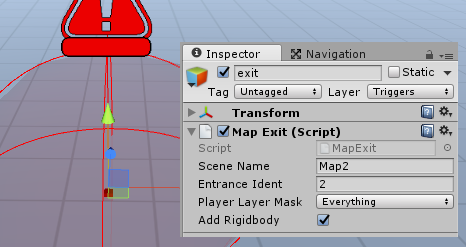
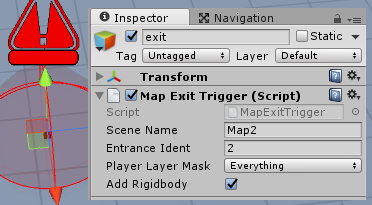
...

diff --git a/pages/blox/tbrpg-map-transition.md b/pages/blox/tbrpg-map-transition.md
@@ -24,6 +24,17 @@ Each entrance in the same scene should have a unique "Ident" since this ident is
 Exit
 ----
 
+![](img/tbrpg/10.png)
+
+The map exit is a component which you can add to any object which will cause a scene change when the player interacts with that object. This component can be added from menu: `Component > Blox > TBRPG > Map Exit`.
+
+You need to specify a scene to load and an ident for a map entrance in the target scene. You may leave out the entrance ident but then the first entrance found in the target scene will be used or position 0x0x0 if there are no map entrances defined in the target scene.
+
+The object you place this on will need a collider so that mouse clicks on the objects can be detected.
+
+Exit Trigger
+------------
+
 ![](img/tbrpg/07.png)
 
 The map exit is a trigger which will cause a scene change when a member of the party enters it. Make changes to the transform scale to determine how big an area the trigger should cover.
@@ -33,8 +44,5 @@ You need to specify a scene to load and an ident for a map entrance in the targe
 You will probably be placing all your player characters in the same layer. This layer can be selected for the "Player payer mask" option. Note that you may leave it to "Everything" if you want since the MapExit will not trigger for anything other than a player party member.
 
 You might also want to place this object in a layer, for example one called "Triggers" and then set up the project's layer collision matrix to exclude everything except the Player layer. You can read more about this in the Unity documentation for [Layer Collision Matrix](https://docs.unity3d.com/Manual/LayerBasedCollision.html).
-
-
-
 
 

diff --git a/pages/blox/tbrpg-intro.md b/pages/blox/tbrpg-intro.md
@@ -14,7 +14,7 @@ Turn Based RPG for Blox
 
 **WARNING: This plugin is still under heavy development. It is currently in Alpha state. Please visit the [Support Forum](http://forum.plyoung.com/t/turn-based-rpg-dev/3679) to track development and progress of this plugin.**
 
-The Turn Based RPG plugin for [Blox](https://www.assetstore.unity3d.com/?asac=MnslCi8JXB#!/content/62473) adds various game systems and controllers which are commonly needed while developing such a game. The goal of this plugin is to provide systems for game mechanics similar to games like Wasteland 2 or Divinity: Original Sin.
+The Turn Based RPG plugin for [Blox](https://www.assetstore.unity3d.com/?asac=MnslCi8JXB#!/content/62473) adds various game systems and controllers which are commonly needed while developing a Turn Based RPG game. The goal of this plugin is to provide systems for game mechanics similar to games like Wasteland 2 or Divinity: Original Sin.
 
 This is not a complete game or an API or Framework. It is a tool to develop a very genre specific game with.
 

diff --git a/pages/blox/tbrpg-player-setup.md b/pages/blox/tbrpg-player-setup.md
@@ -47,6 +47,6 @@ All you really need to add to a character object is the [Animator](https://docs.
 
 You might also want to add a NavMeshAgent so that you can configure it. If you do not, one will be added automatically with default settings.
 
-A Capsule Collider can also be added since a Collider will be needed for the character to be selectable and to be able to trigger Triggers in the scene. Again, this will be added automatically but the default settings might not be perfect for your character's shape. The Collider can be set a "Is Trigger" since it does not need to create collision events.
+A Capsule Collider can also be added since a Collider will be needed for the character to be selectable and to be able to trigger Triggers in the scene. Again, this will be added automatically but the default settings might not be perfect for your character's shape. 
 
 ![](img/tbrpg/09.png)
